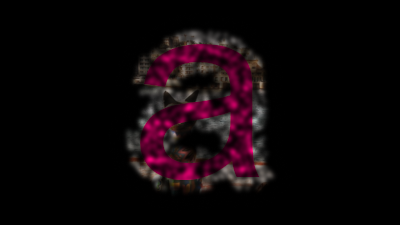
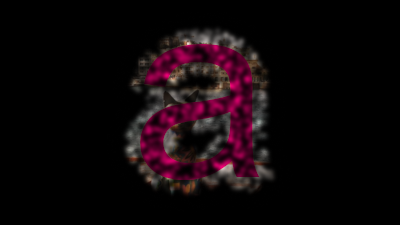
support non-integer products of sigma and max_sigma_from_nonzero

Changed region(s): [[0.3, 0.1244, 0.69, 0.8711]]

diff --git a/src/bubblemask/mask.py b/src/bubblemask/mask.py
@@ -69,9 +69,8 @@ def bubbles_conv_mask (im, mu_x=None, mu_y=None, sigma=np.array([5]), bg=0):
     
     return(im_out, mask, mu_x, mu_y, sigma)
 
-
-def bubbles_mask_nonzero (im, ref_im=None, sigma = np.array([5]), bg=0, ref_bg=0, max_sigma_from_nonzero=np.inf, **kwargs):
-    """Apply the bubbles mask to a given PIL image, restricting the possible locations of the bubbles' centres to be within a given multiple of non-zero pixels. The image will be binarised to be im>ref_bg (or ref_im>ref_bg), so binary dilation can be applied. Any products of sigma and max_sigma_from_nonzero that are floats will be rounded to the nearest integer. Returns the edited PIL image, the generated mask, mu_y, mu_x, and sigma.
+def bubbles_mask_nonzero (im, ref_im=None, sigma=np.array([5]), bg=0, ref_bg=0, max_sigma_from_nonzero=np.inf, max_iter=1e5, **kwargs):
+    """Apply the bubbles mask to a given PIL image, restricting the possible locations of the bubbles' centres to be within a given multiple of non-zero pixels. The image will be binarised to be im>ref_bg (or ref_im>ref_bg), so binary dilation can be applied, with a slight buffer (rounded to ceiling). The function then picks random locations, and keeps them if the Euclidean distance from the non-zero values is within the tolerance, otherwise rejecting them. Returns the edited PIL image, the generated mask, mu_y, mu_x, and sigma.
     
      Keyword arguments:
     im -- the image to apply the bubbles mask to
@@ -81,6 +80,7 @@ def bubbles_mask_nonzero (im, ref_im=None, sigma = np.array([5]), bg=0, ref_bg=0
     scale -- should densities' maxima be consistently scaled across different sigma values?
     sum_merge -- should merges, where bubbles overlap, be completed using a simple sum of the bubbles, thresholded to the maxima of the pre-merged bubbles? If False (the default), densities are instead averaged (mean).
     max_sigma_from_nonzero -- maximum multiples of the given sigma value from the nearest nonzero values in ref_im that a bubble's centre can be. Can be `np.inf` for no restriction
+    max_iter -- maximum number of random samples to try for mu location, for each sigma
     **kwargs -- passed to `mask.bubbles_mask` and/or `build.build_mask`, e.g., `scale` and `sum_merge`.
     """
 
@@ -104,11 +104,8 @@ def bubbles_mask_nonzero (im, ref_im=None, sigma = np.array([5]), bg=0, ref_bg=0
     # get the acceptable mu locations for each sigma value, and store in `sigma_mu_bounds`
     
     # get acceptable boundaries for each sigma
-    sigma_dil_iters = np.round(np.array(sigma) * max_sigma_from_nonzero).astype(int)
-
-    # check that the product of sigma and max_sigma_from_nonzero is always an integer - otherwise give a warning
-    if np.any(sigma_dil_iters != sigma_dil_iters.round()):
-        Warning('Some values in max_sigma_from_nonzero*sigma are non-integer. These will be rounded to the nearest integer!')
+    sigma_dists = np.array(sigma) * max_sigma_from_nonzero
+    sigma_dil_iters = np.ceil(sigma_dists).astype(int)
     
     n_iter = np.max(sigma_dil_iters)
     
@@ -116,7 +113,7 @@ def bubbles_mask_nonzero (im, ref_im=None, sigma = np.array([5]), bg=0, ref_bg=0
     max_axis = 1 if ref_im_arr.ndim==2 else 2
     mu_bounds = np.max(ref_im_arr > ref_bg, axis=max_axis)
     
-    # this will contain the desired mu bounds for each sigma
+    # this will contain the maximum mu bounds for each sigma
     sigma_mu_bounds = [None] * len(sigma)
     
     for i in range(n_iter):
@@ -128,20 +125,40 @@ def bubbles_mask_nonzero (im, ref_im=None, sigma = np.array([5]), bg=0, ref_bg=0
                 sigma_mu_bounds[sigma_i] = mu_bounds.copy()
 
     # get possible mu locations for each sigma
-    poss_mu = [np.where(idx_ok) for idx_ok in sigma_mu_bounds]
-    
-    # get mu locations for each bubble, as an index in the possible mu values
-    mu_idx = [np.random.randint(low=0, high=len(x[0]), size=1) for x in poss_mu]
-    
-    # generate actual mu values as index plus uniform noise between -0.5 and 0.5 (rather than all mus being on integers)
-    mu_y = [int(poss_mu[i][0][mu_idx[i]]) for i in range(len(poss_mu))] + np.random.uniform(low=-0.5, high=0.5, size=len(mu_idx))
-    mu_x = [int(poss_mu[i][1][mu_idx[i]]) for i in range(len(poss_mu))] + np.random.uniform(low=-0.5, high=0.5, size=len(mu_idx))
+    poss_mu_seeds = [np.where(idx_ok) for idx_ok in sigma_mu_bounds]
+
+    mu = np.zeros((2, len(sigma)))
+    mu[:] = np.nan
+
+    for i in range(len(sigma)):
+        attempt = 0
+        sample_ok = False
+
+        while not sample_ok:
+            attempt += 1
+
+            if attempt > max_iter:
+                RuntimeError('Reached max_iter!')
+
+            p = np.random.randint(low=0, high=len(poss_mu_seeds[i][0]), size=1)  # index of the seed sample
+            mu[:, i] = np.array( [poss_mu_seeds[i][0][p], poss_mu_seeds[i][1][p]] ).flatten()  # store the seed location
+            mu[:, i] += np.random.uniform(low=-0.5, high=0.5, size=2)  # add jitter from the seed location
+            dist_i = np.linalg.norm(mu[:, i] - np.array(poss_mu_seeds[i]).T, axis=1)
+
+            # reject sample if outside of bounds
+            if np.min(dist_i) > sigma_dists[i]:
+                mu[:, i] = np.nan
+            else:
+                sample_ok = True
     
     # build mask
-    mask = build.build_mask(mu_y=mu_y, mu_x=mu_x, sigma=sigma, sh=sh, **kwargs)
+    mu_y = mu[0, :]
+    mu_x = mu[1, :]
+    mask = build.build_mask(mu_x=mu_x, mu_y=mu_y, sigma=sigma, sh=sh, **kwargs)
     
     # apply mask
     im_out_mat = apply.apply_mask(im=im, mask=mask, bg=bg)
     im_out = Image.fromarray(np.uint8(im_out_mat))
     
     return(im_out, mask, mu_x, mu_y, sigma)
+
